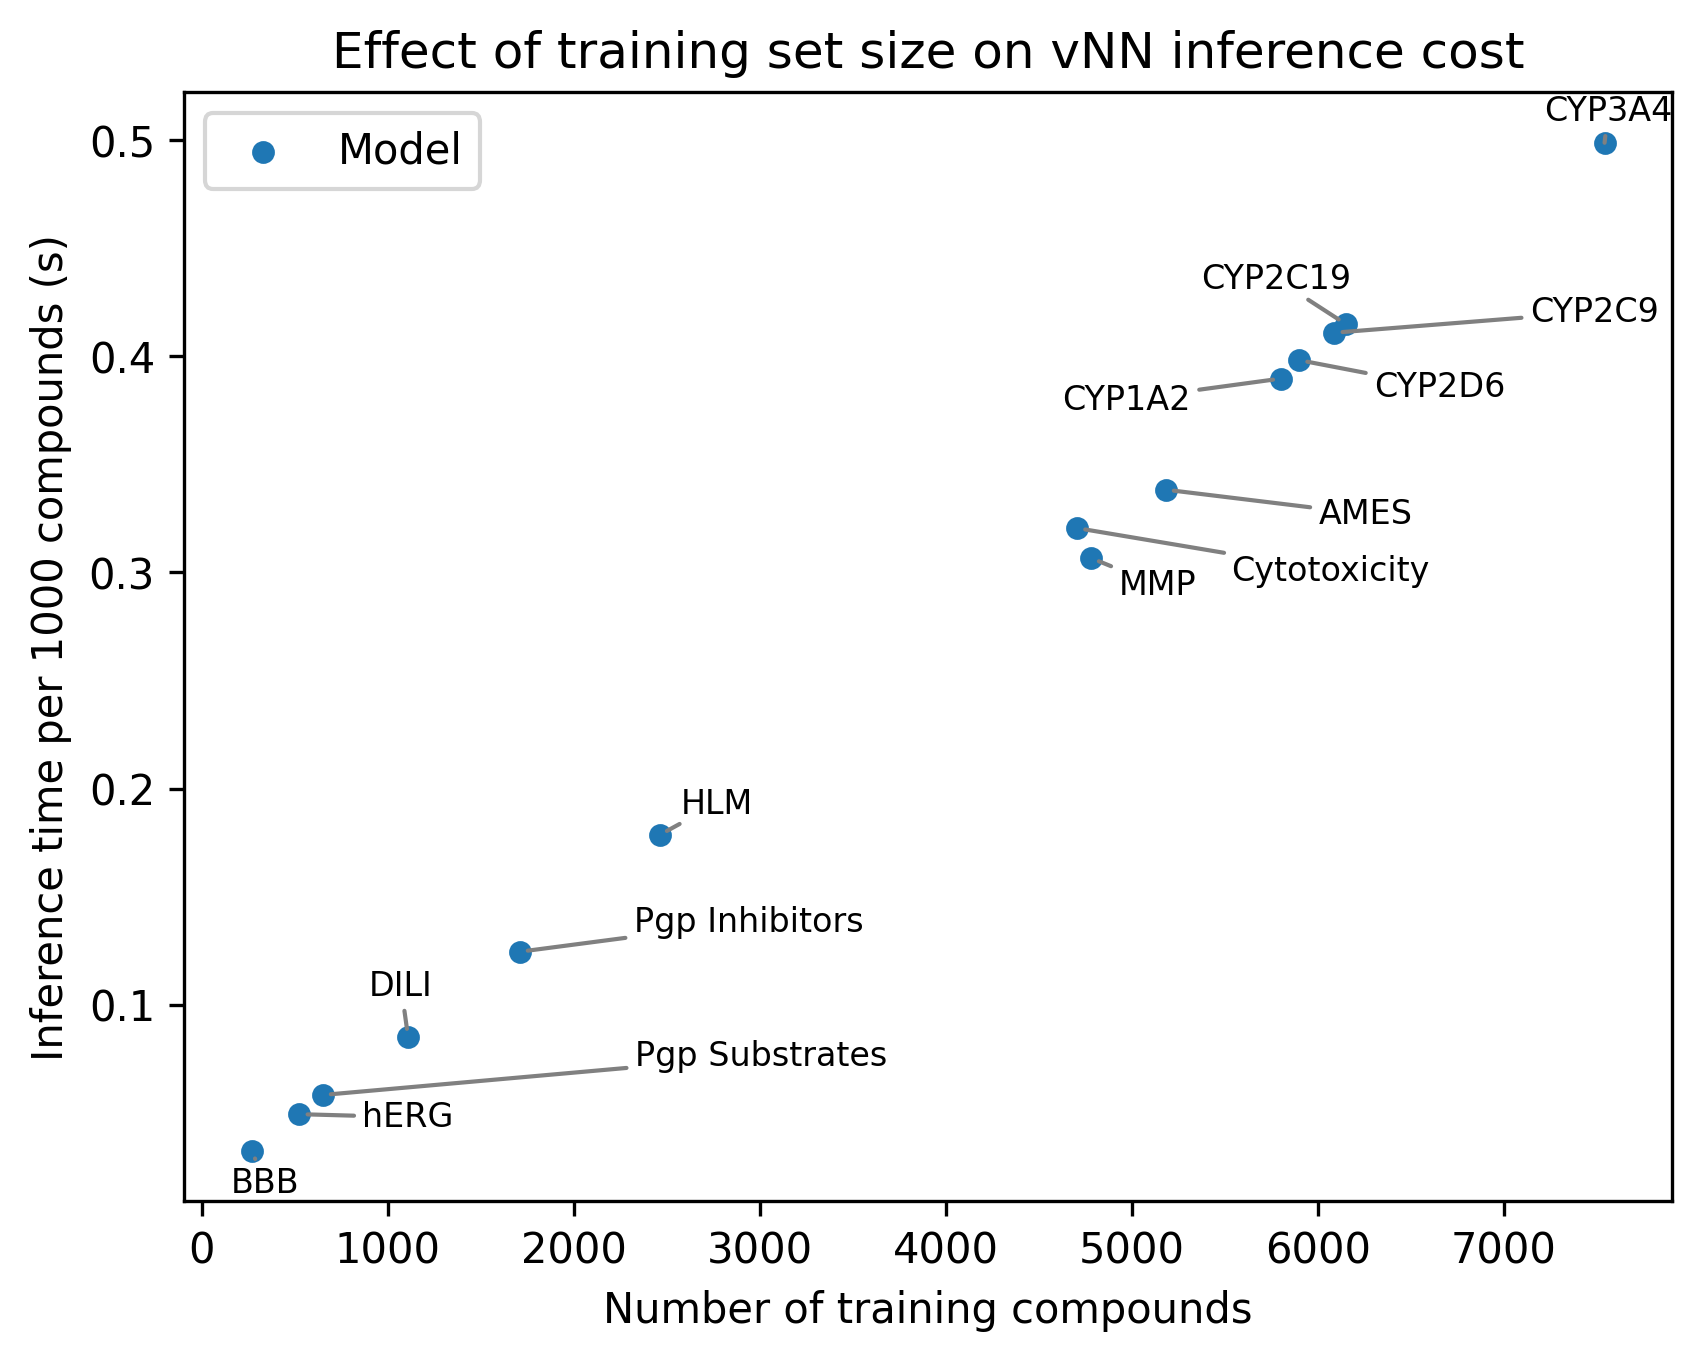
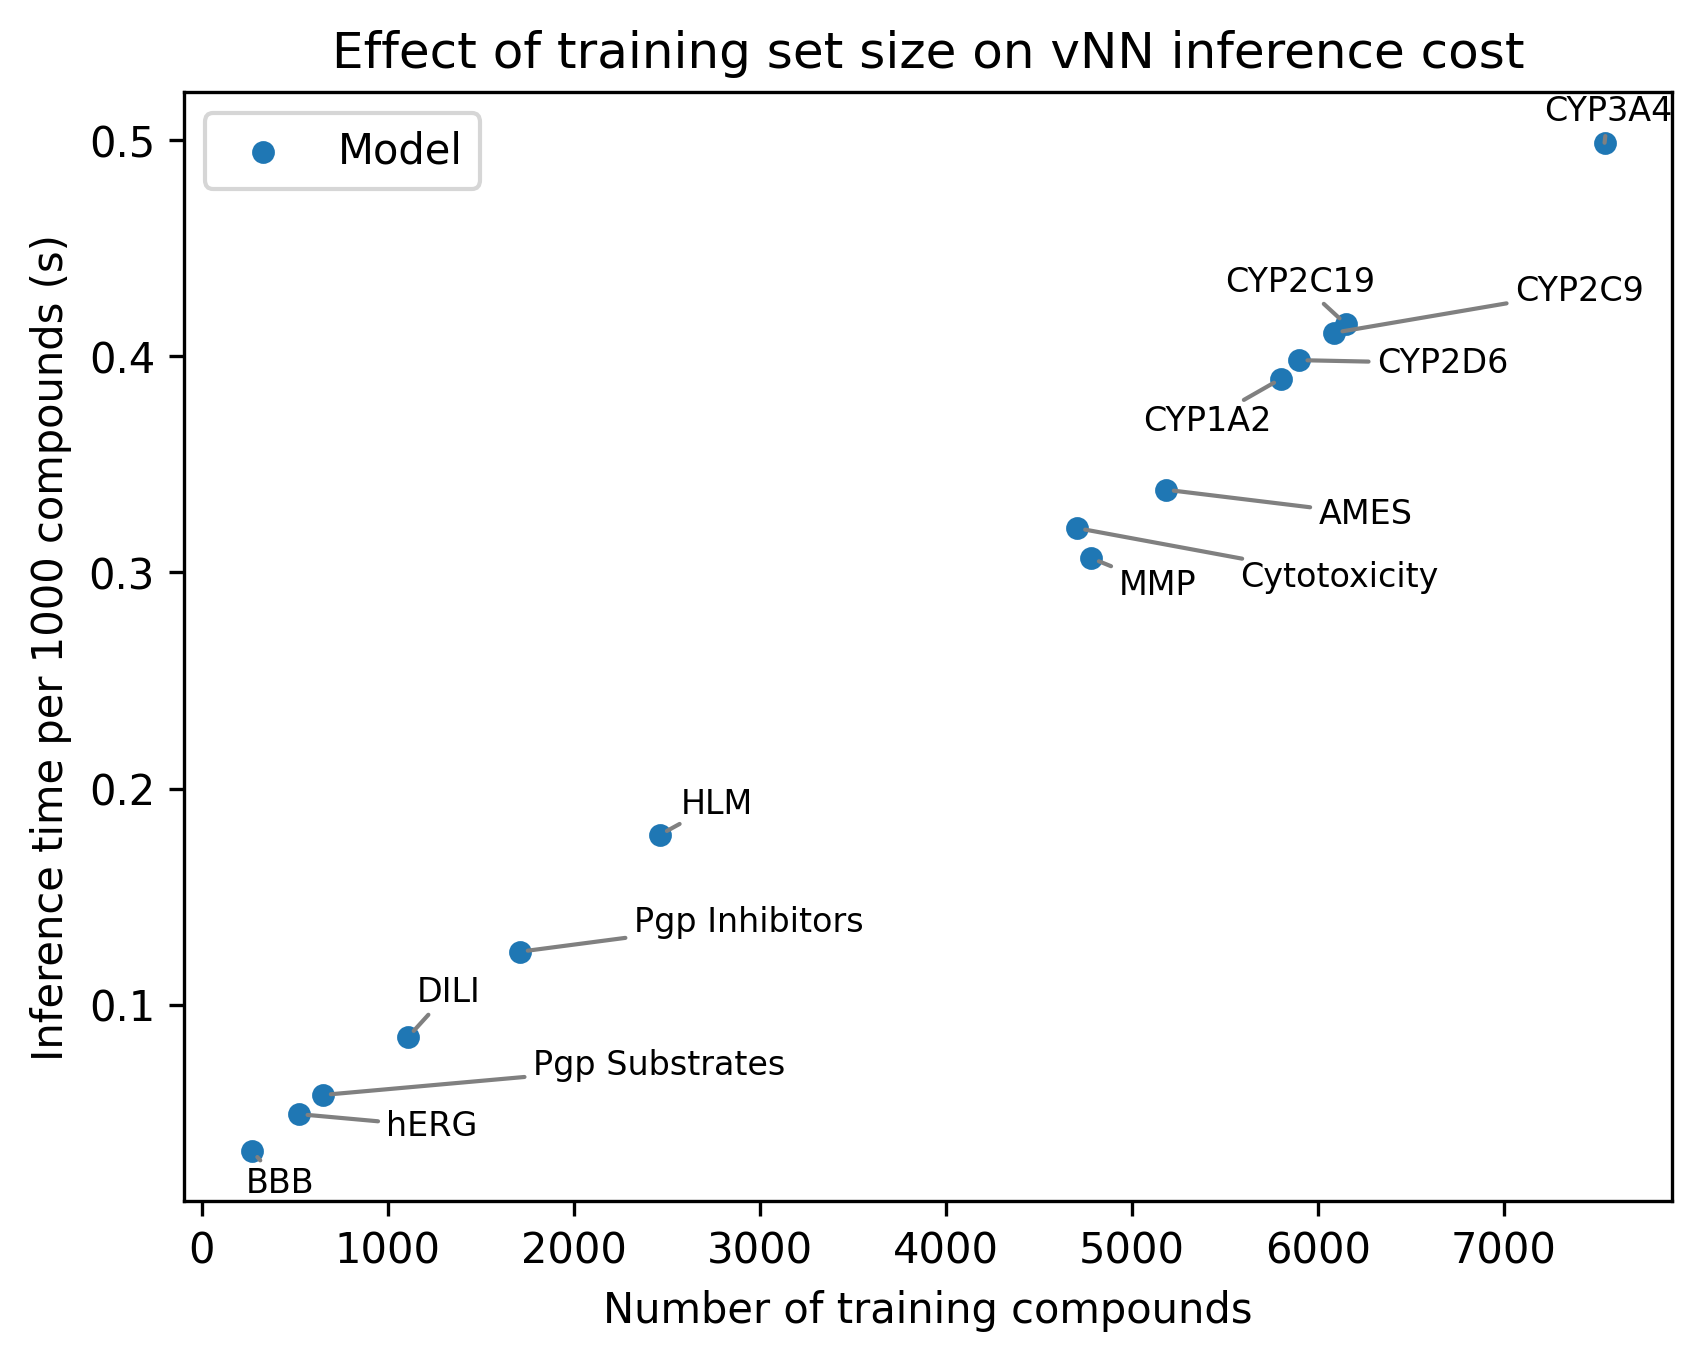
Clean up code

diff --git a/visualization/plot_performance.py b/visualization/plot_performance.py
@@ -177,34 +177,10 @@ def make_combined_performance_df() -> pd.DataFrame:
     return combined_performance_df
 
 
-def main():
-    Path("visualization/out").mkdir(exist_ok=True)
-
-    combined_performance_df = make_combined_performance_df()
-
-    plot_configs_to_use = [
-        *PLOT_CONFIGS,
-        *(PLOT_CONFIGS_EXTRA_FRAMEWORKS if USE_EXTRA_FRAMEWORKS else []),
-    ]
-
-    n_offsets = len({offset for _, _, offset, _, _ in plot_configs_to_use})
-    plot_configs = {
-        (framework, featurization): (
-            color,
-            offset * SPREAD / (n_offsets - 1) - SPREAD / 2,
-            display_name,
-        )
-        for framework, featurization, offset, display_name, color in plot_configs_to_use
-    }
-
-    combined_performance_df = combined_performance_df[
-        combined_performance_df.apply(
-            lambda row: (row["framework"], row["featurization"]) in plot_configs,
-            axis=1,
-        )
-    ]
-
-    #  Plot test performance
+def plot_test_performance(
+    combined_performance_df: pd.DataFrame,
+    plot_configs: dict[tuple[str, str], tuple[str, float, str]],
+):
     for metric in METRICS:
         fig = plt.figure(figsize=(12, 6), dpi=300)
         ax = fig.add_subplot()
@@ -248,7 +224,11 @@ def main():
             bbox_inches="tight",
         )
 
-    #  Plot time test performance
+
+def plot_time_performance(
+    combined_performance_df: pd.DataFrame,
+    plot_configs: dict[tuple[str, str], tuple[str, float, str]],
+):
     for time_key, time_display_name, unit, multiplier, y_max in [
         (
             "train_time_normalized",
@@ -339,18 +319,24 @@ def main():
 
         fig.savefig(f"visualization/out/{time_key}.png", bbox_inches="tight")
 
-    # Make stacked bar chart
+
+def plot_ranking_bar_chart(
+    combined_performance_df: pd.DataFrame,
+    plot_configs: dict[tuple[str, str], tuple[str, float, str]],
+    n_offsets: int,
+):
+    # Add column for configuration
     combined_performance_df["config"] = combined_performance_df.apply(
         lambda row: plot_configs[(row["framework"], row["featurization"])][2],
         axis=1,
     )
+
+    # Count ranks for each configuration
     ranking = (
         combined_performance_df[["config", "dataset", "kappa"]]
         .sort_values("kappa", ascending=False)
         .sort_values("dataset", kind="stable")
     )
-
-    # Count ranks for each configuration
     ranking_counts = defaultdict(lambda: defaultdict(lambda: 0))
     unique_datasets = ranking["dataset"].drop_duplicates()
     for dataset in unique_datasets:
@@ -381,7 +367,8 @@ def main():
         dpi=300,
     )
 
-    # Make inference time scatter plot
+
+def plot_inference_time_scatter_plots(combined_performance_df):
     for index, name in [
         (combined_performance_df["framework"] == "vnn", "vNN"),
         (
@@ -429,6 +416,7 @@ def main():
             min_arrow_len=0,
             ax=ax,
             color="gray",
+            iter_lim=100,
         )
         ax.figure.savefig(  # type: ignore
             f"visualization/out/inference_time_scatter_plot.{name.lower().replace(" ", "_")}.png",
@@ -436,6 +424,45 @@ def main():
             dpi=300,
         )
 
+
+def main():
+    Path("visualization/out").mkdir(exist_ok=True)
+
+    combined_performance_df = make_combined_performance_df()
+
+    plot_configs_to_use = [
+        *PLOT_CONFIGS,
+        *(PLOT_CONFIGS_EXTRA_FRAMEWORKS if USE_EXTRA_FRAMEWORKS else []),
+    ]
+
+    n_offsets = len({offset for _, _, offset, _, _ in plot_configs_to_use})
+    plot_configs = {
+        (framework, featurization): (
+            color,
+            offset * SPREAD / (n_offsets - 1) - SPREAD / 2,
+            display_name,
+        )
+        for framework, featurization, offset, display_name, color in plot_configs_to_use
+    }
+
+    combined_performance_df = combined_performance_df[
+        combined_performance_df.apply(
+            lambda row: (row["framework"], row["featurization"]) in plot_configs,
+            axis=1,
+        )
+    ]
+
+    # Plot test performance
+    plot_test_performance(combined_performance_df, plot_configs)
+
+    # Plot time test performance
+    plot_time_performance(combined_performance_df, plot_configs)
+
+    # Make stacked bar chart
+    plot_ranking_bar_chart(combined_performance_df, plot_configs, n_offsets)
+
+    # Make inference time scatter plot
+    plot_inference_time_scatter_plots(combined_performance_df)
 
 if __name__ == "__main__":
     main()

diff --git a/visualization/plot_significance_tests.py b/visualization/plot_significance_tests.py
@@ -6,15 +6,18 @@ PIPELINE_REPO_PATH = "bcrp_classify"
 
 
 def main():
-    datasets = pd.read_csv(Path(__file__).parent.parent / "data" / "dataset_config.csv")["DATASET"]
+    datasets = pd.read_csv(
+        Path(__file__).parent.parent / "data" / "dataset_config.csv"
+    )["DATASET"]
 
     for dataset in datasets:
+        # Load aggregate cross validation performance row for the top validating vNN config
         top_vnn_aggregate_stats = (
             pd.read_csv(f"output/vnn/leaderboards/leaderboard.{dataset}.morgan_fp.csv")
             .sort_values("kappa", ascending=False)
             .iloc[0]
         )
-
+        # Load vNN per-fold cross validation performance for only the top validating config
         top_vnn_cross_val_stats = pd.read_csv(
             f"output/vnn/leaderboards/leaderboard-per_forld.{dataset}.morgan_fp.csv"
         )
@@ -22,6 +25,8 @@ def main():
             top_vnn_cross_val_stats["SmoothFactor"]
             == top_vnn_aggregate_stats["SmoothFactor"]
         ].reset_index(drop=True)
+
+        # Configure the columns to match those in the validation step of the AutoML pipeline
         column_map = {
             "AreaUnderTheCurve": "ROC_AUC",
             "PR_AUC": "PR_AUC",
@@ -35,37 +40,45 @@ def main():
             "kappa": "Kappa",
         }
         top_vnn_cross_val_stats = top_vnn_cross_val_stats.rename(column_map, axis=1)
-        top_vnn_cross_val_stats = top_vnn_cross_val_stats[[*column_map.values(), "Repeat", "Fold"]]
+        top_vnn_cross_val_stats = top_vnn_cross_val_stats[
+            [*column_map.values(), "Repeat", "Fold"]
+        ]
         top_vnn_cross_val_stats["Descriptor"] = "Morgan"
         top_vnn_cross_val_stats["Model"] = "vNN"
 
-        bhsai_cross_val_stats_file = (
+        # Add the vNN per-fold CV stats to the AutoADMET per-fold CV stats
+        autoadmet_cross_val_stats_file = (
             f"output/autoadmet_pipeline/{dataset}/cv_results/per_fold_results.csv"
         )
-        bhsai_cross_val_stats = pd.read_csv(bhsai_cross_val_stats_file)
-        if not (bhsai_cross_val_stats["Model"] == "vNN").any():
-            bhsai_cross_val_stats = pd.concat(
-                [bhsai_cross_val_stats, top_vnn_cross_val_stats]
+        autoadmet_cross_val_stats = pd.read_csv(autoadmet_cross_val_stats_file)
+        if not (autoadmet_cross_val_stats["Model"] == "vNN").any():
+            autoadmet_cross_val_stats = pd.concat(
+                [autoadmet_cross_val_stats, top_vnn_cross_val_stats]
             )
-            bhsai_cross_val_stats.to_csv(bhsai_cross_val_stats_file, index=False)
+            autoadmet_cross_val_stats.to_csv(
+                autoadmet_cross_val_stats_file, index=False
+            )
 
+        # Add the vNN aggregate CV stats to the AutoADMET aggregate CV stats
         top_vnn_aggregate_stats = top_vnn_aggregate_stats.rename(column_map)
         top_vnn_aggregate_stats = top_vnn_aggregate_stats[list(column_map.values())]
         top_vnn_aggregate_stats["Descriptor"] = "Morgan"
         top_vnn_aggregate_stats["Model"] = "vNN"
 
-        bhsai_aggregate_stats_file = (
+        autoadmet_aggregate_stats_file = (
             f"output/autoadmet_pipeline/{dataset}/cv_results/results_summary.csv"
         )
-        bhsai_aggregate_stats = pd.read_csv(bhsai_aggregate_stats_file)
-        if not (bhsai_aggregate_stats["Model"] == "vNN").any():
-            bhsai_aggregate_stats = pd.concat(
-                [bhsai_aggregate_stats, pd.DataFrame(top_vnn_aggregate_stats).T]
+        autoadmet_aggregate_stats = pd.read_csv(autoadmet_aggregate_stats_file)
+        if not (autoadmet_aggregate_stats["Model"] == "vNN").any():
+            autoadmet_aggregate_stats = pd.concat(
+                [autoadmet_aggregate_stats, pd.DataFrame(top_vnn_aggregate_stats).T]
             )
-            bhsai_aggregate_stats.to_csv(bhsai_aggregate_stats_file, index=False)
+            autoadmet_aggregate_stats.to_csv(
+                autoadmet_aggregate_stats_file, index=False
+            )
 
+        # Rerun the AutoML cross validation performance visualization step. 
         import subprocess
-
         subprocess.run(
             f'{PIPELINE_REPO_PATH}/.venv/Scripts/python.exe {PIPELINE_REPO_PATH}/pipeline.py \
                 --output "output/autoadmet_pipeline/{dataset}/cv_results" \
